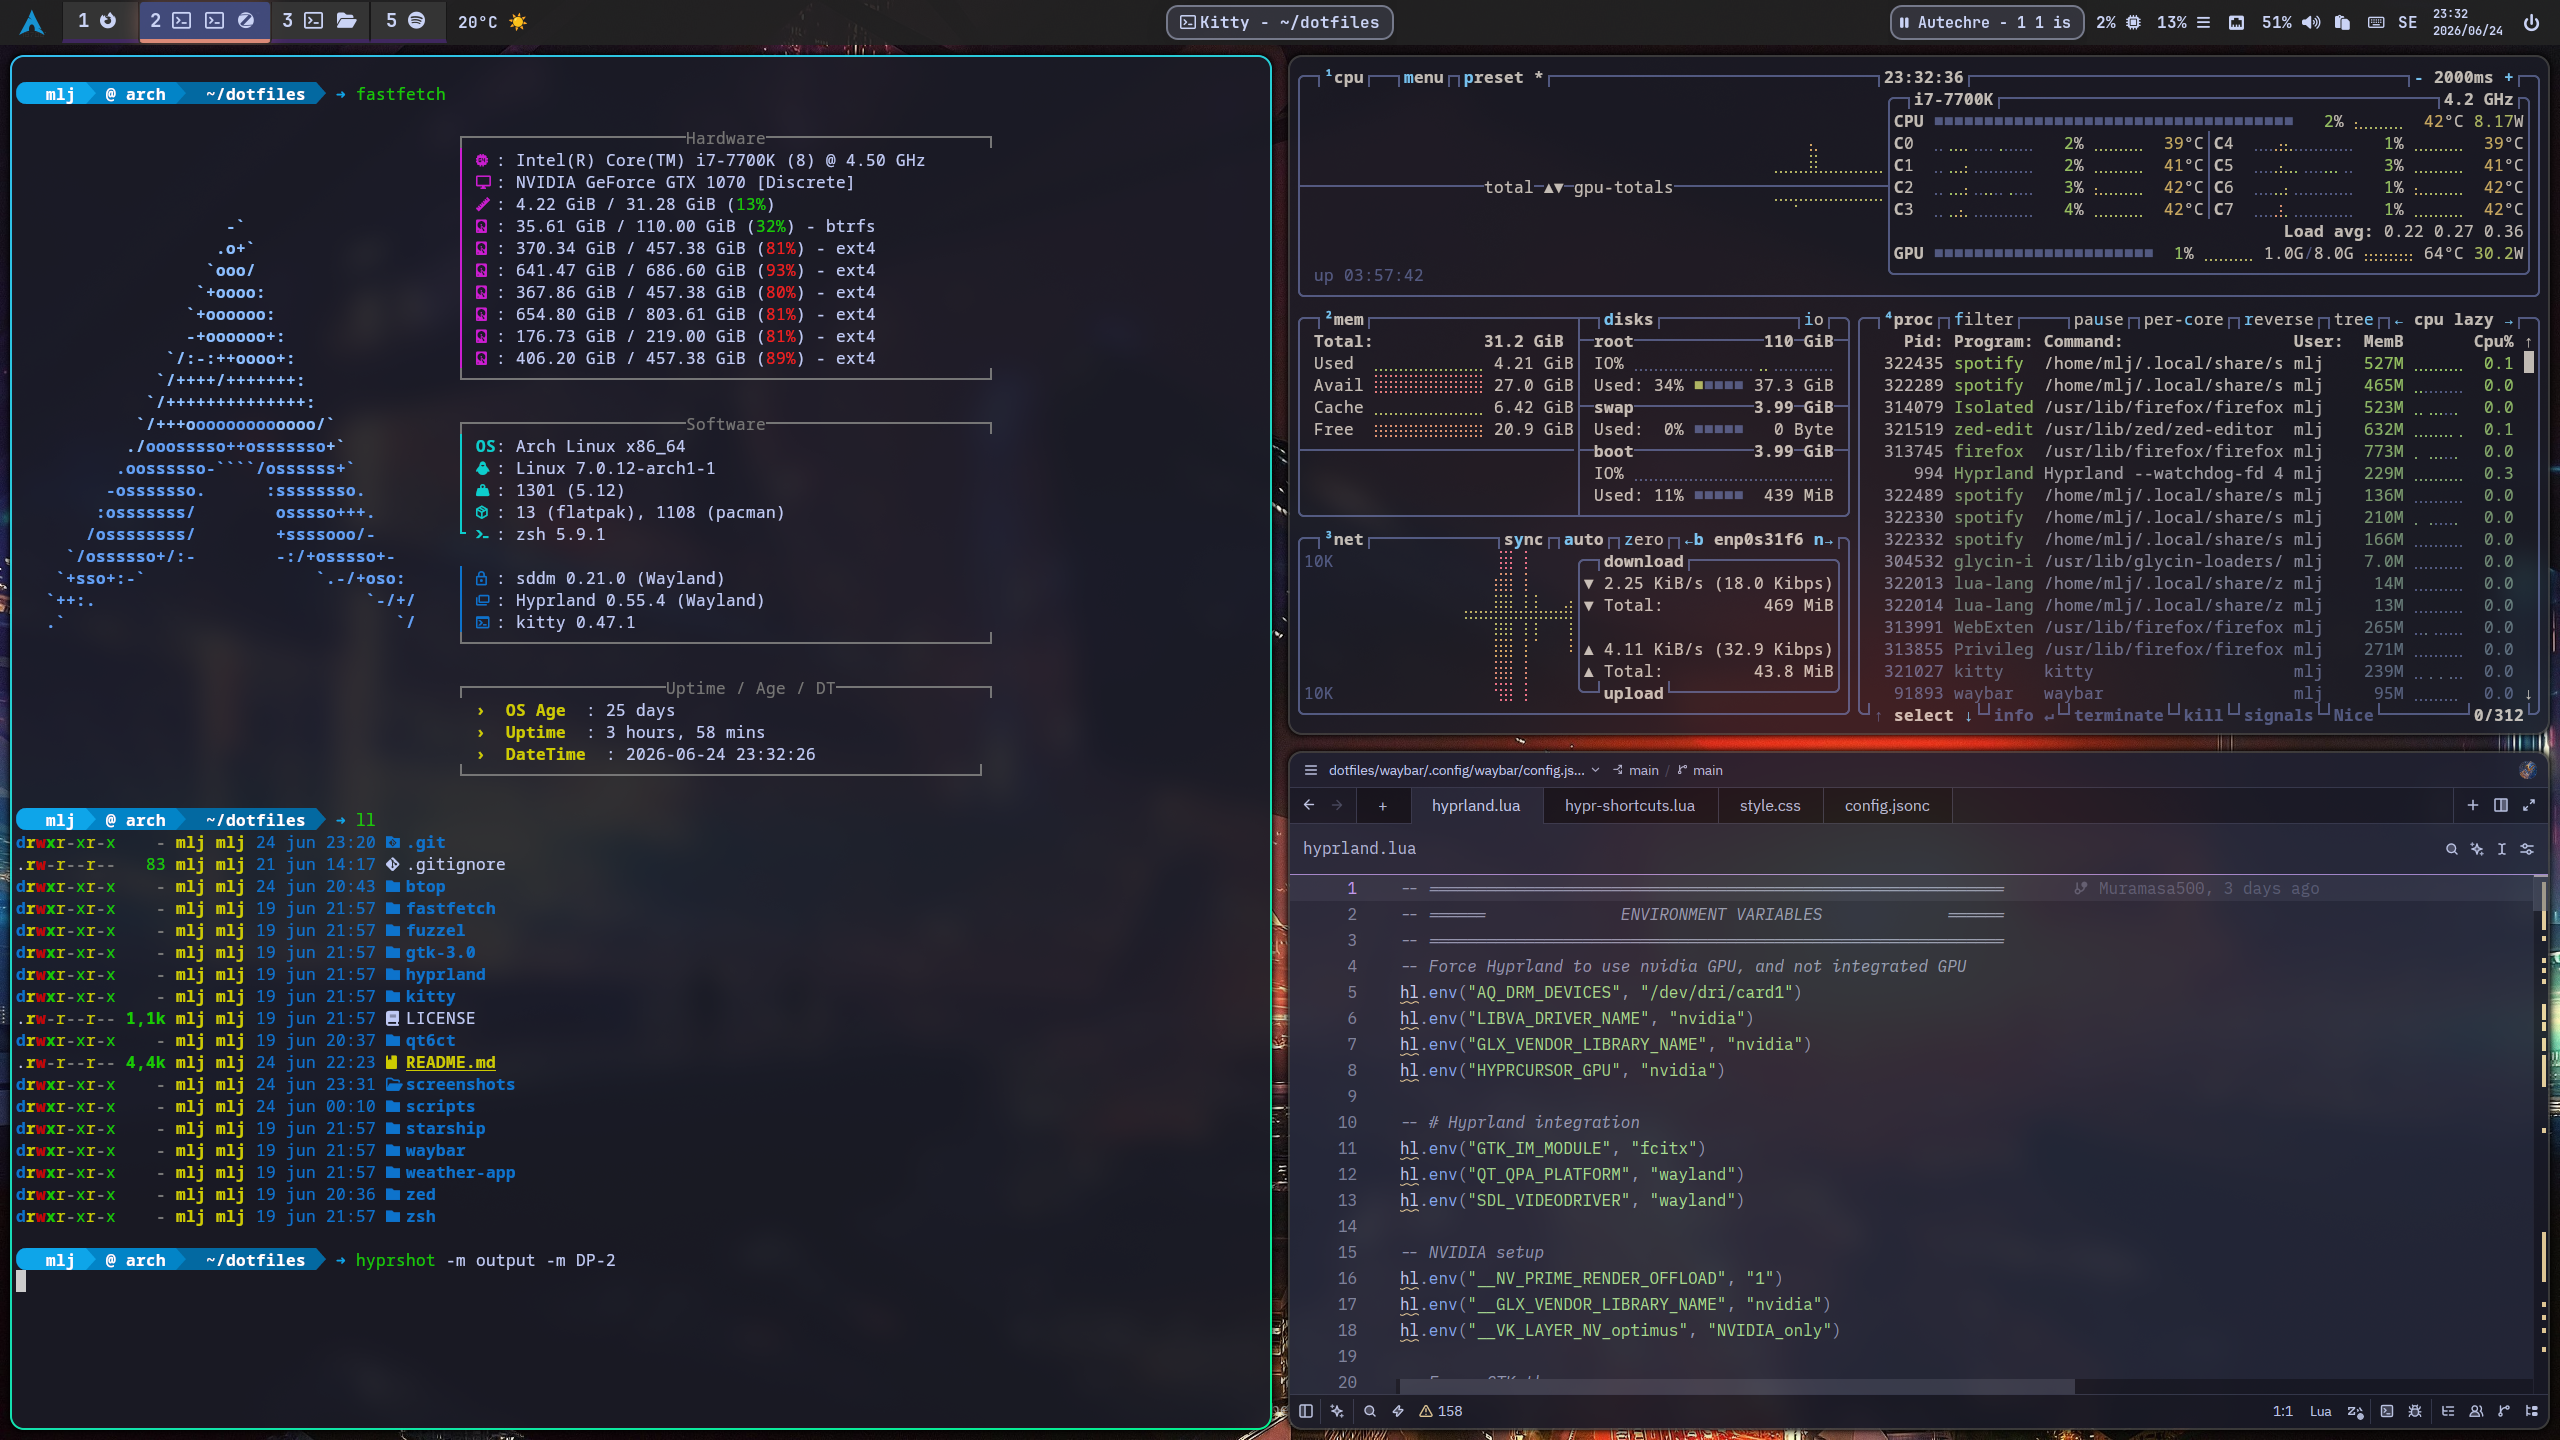
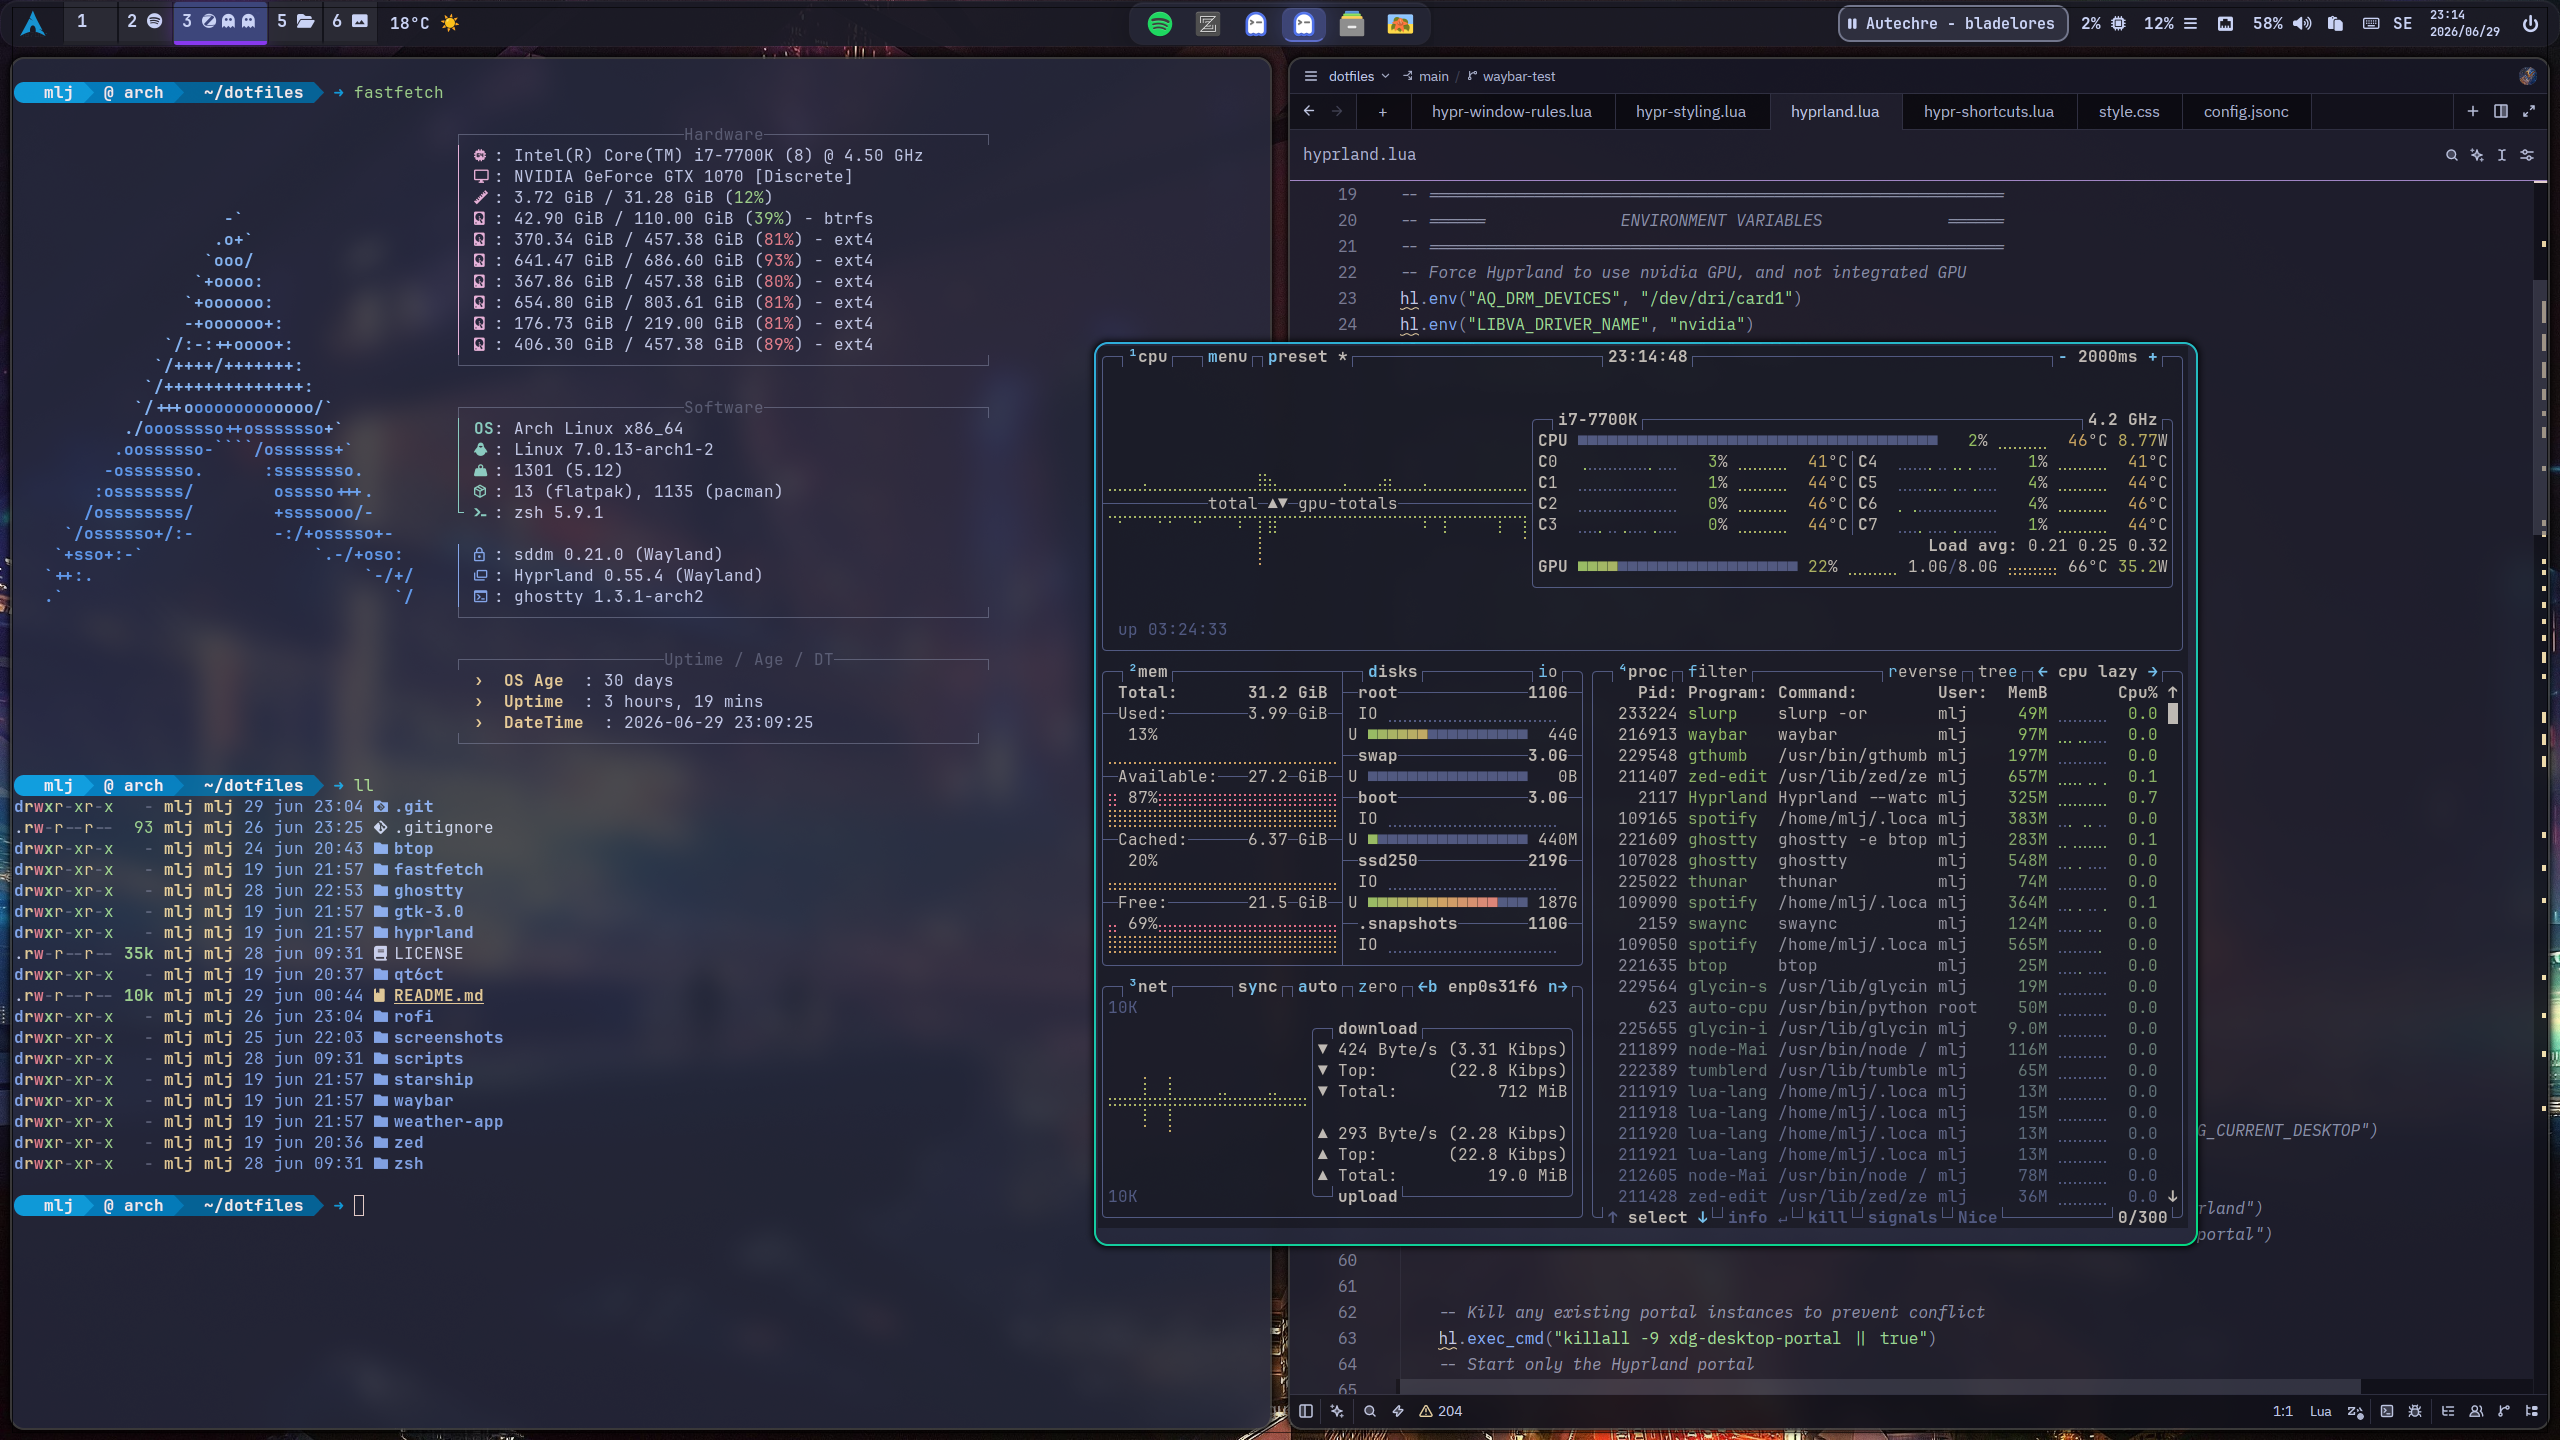
Updated README.md, changed waybar, changed hyprland window rules

diff --git a/README.md b/README.md
@@ -22,6 +22,7 @@ These configurations cover the complete desktop experience—from window managem
 <p align="center">
   <img src="screenshots/desktop1.png" alt="Muramasa's Dotfiles" width="100%">
   <img src="screenshots/desktop2.png" alt="Muramasa's Dotfiles" width="100%">
+  <img src="screenshots/desktop3.png" alt="Muramasa's Dotfiles" width="100%">
 </p>
 
 ## Overview
@@ -196,7 +197,7 @@ sudo pacman -S \
   zsh-syntax-highlighting slurp eza dust fd bat \
   ripgrep procs fzf zoxide btop thunar direnv zed \
   qalculate-gtk brightnessctl fastfetch sudo-rs  \
-  network-manager-applet flameshot
+  network-manager-applet hyprshot
   ```
 
 ## ⚠️ Hardware Notes
@@ -218,6 +219,7 @@ sudo pacman -S \
 - [HyprPolkitAgent](https://github.com/hyprwm/hyprpolkitagent) - Polkit authentication agent
 - [HyprSunset](https://github.com/hyprwm/hyprsunset) - Blue light filter
 - [XDG Desktop Portal Hyprland](https://github.com/hyprwm/xdg-desktop-portal-hyprland) - Integration layer
+- [Hyprshot](https://github.com/Gustash/hyprshot) - Screenshot utility
 
 #### Core Applications
 - [Waybar](https://github.com/Alexays/Waybar) - Status bar
@@ -234,7 +236,6 @@ sudo pacman -S \
 #### Utilities
 - [Cliphist](https://github.com/chromey/cliphist) - Clipboard history manager
 - [Btop](https://github.com/arista-nos/btop) - Resource monitor
-- [Flameshot](https://github.com/flameshot-org/flameshot) - Screenshot utility
 - [Fastfetch](https://github.com/fastfetch-cli/fastfetch) - System information display
 - [Starship](https://github.com/starship/starship) - Cross-shell prompt
 - [Jluttine/Rofi-Power-Menu](https://github.com/jluttine/rofi-power-menu) - Power menu script